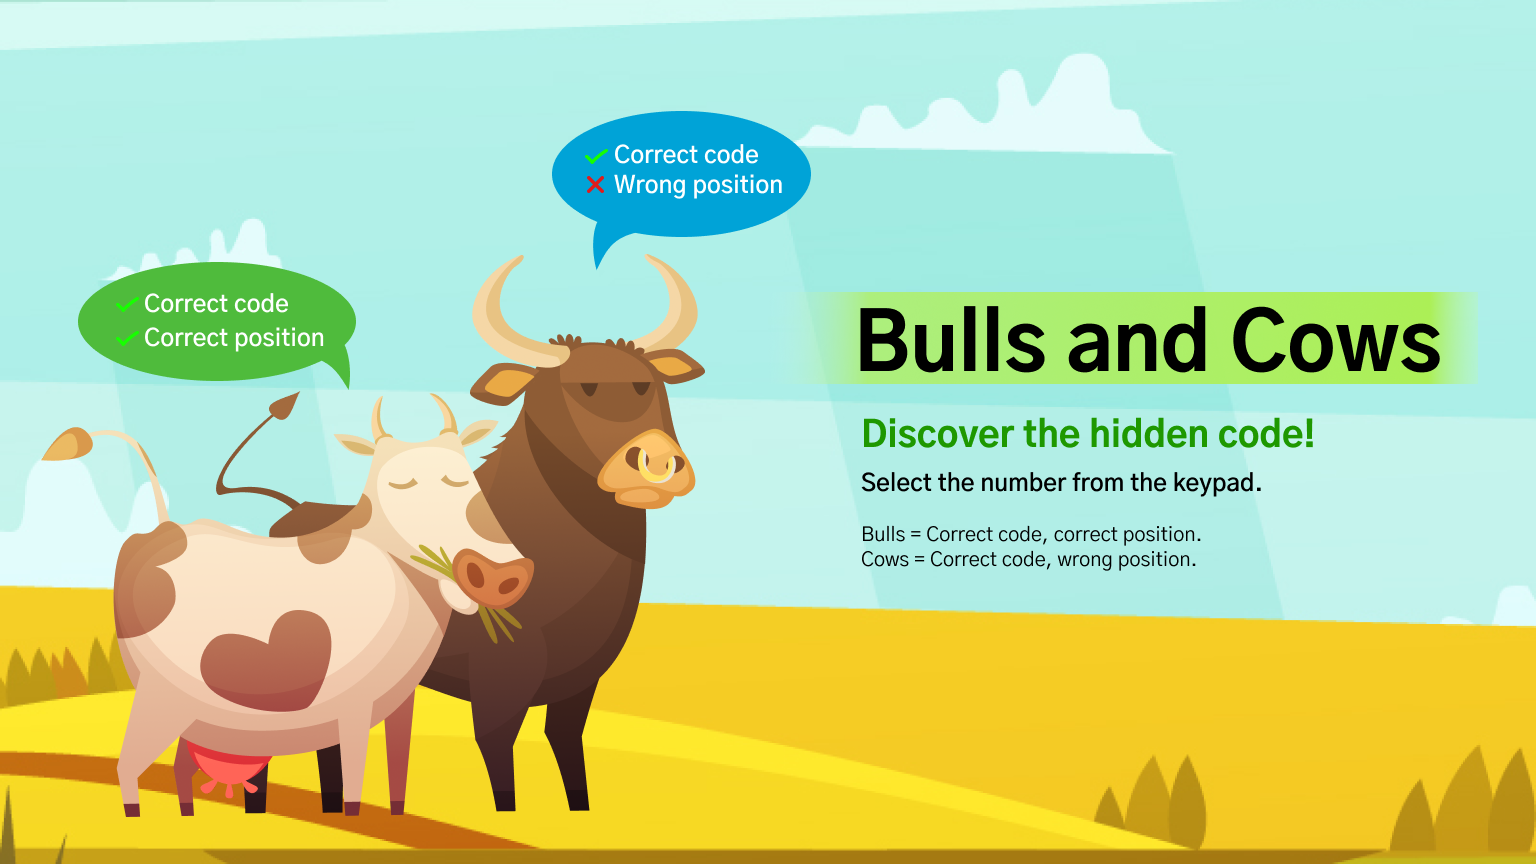
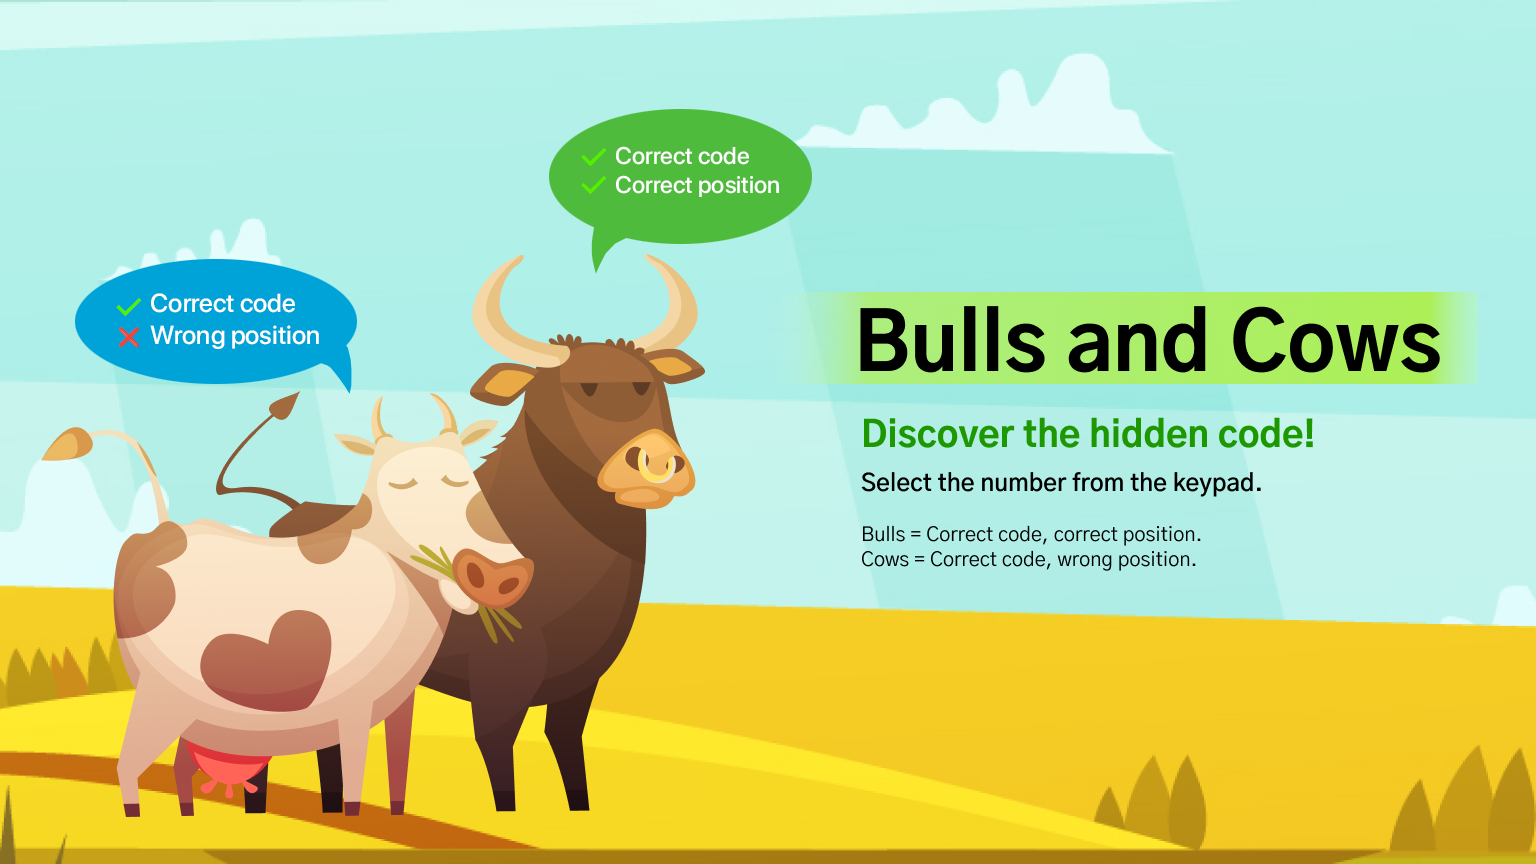
Fixed the UI error and changed the placements for cow and bull numbers

Changed region(s): [[0.0312, 0.2812, 0.25, 0.4688], [0.3438, 0.125, 0.5312, 0.3125]]

diff --git a/Bull & Cow game/GUI2.py b/Bull & Cow game/GUI2.py
@@ -81,10 +81,10 @@ def main_window():
         #labelx = Label(window2, text=a_string, bg="#B6D8FF").place(x = 1332, y = 566)
         res.append(int(a_string))
         cbl.append([tc,tb,res])
-        x_c_init = 851
+        x_c_init = 921
         y_c_init = 274
 
-        x_b_init = 909
+        x_b_init = 1069
         y_b_init = 274
 
         x_a_init = 767
@@ -101,13 +101,13 @@ def main_window():
             y_b_init+=40
             count+=1
             labela = Label(window2, text="Number of attempts : {}".format(count-1),bg="#F8F37D").place(x=1200, y=703)
+            #if count == 12:
+               # x_a_init = 975
+               # x_b_init = 1113
+               # x_c_init = 1057
+               # y_a_init,y_b_init,y_c_init = 274,274,274
             if count == 12:
-                x_a_init = 975
-                x_b_init = 1113
-                x_c_init = 1057
-                y_a_init,y_b_init,y_c_init = 274,274,274
-            elif count == 23:
-                labeld = Label(window2,text="You lost, U coundn't figure out the code in 22 tries").place(x=734,y=773)
+                labeld = Label(window2,text="You lost, you coundn't figure out the code in 11 tries",bg="#BBFFF3").place(x=734,y=773)
         #print("Cow = ",tc)
         #print("bull =",tb)
         
